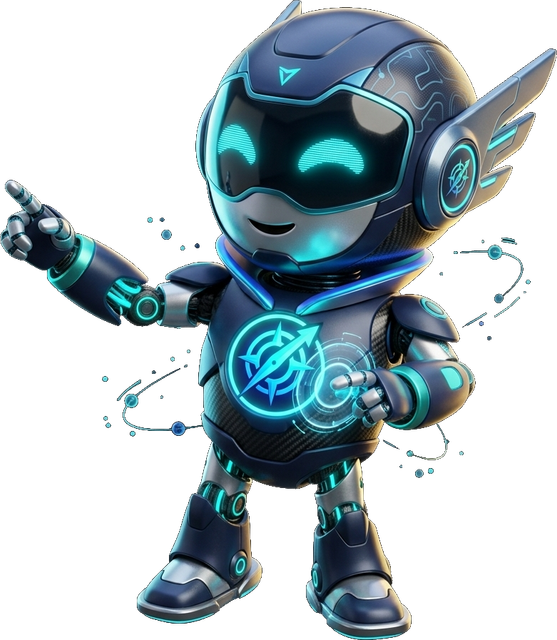
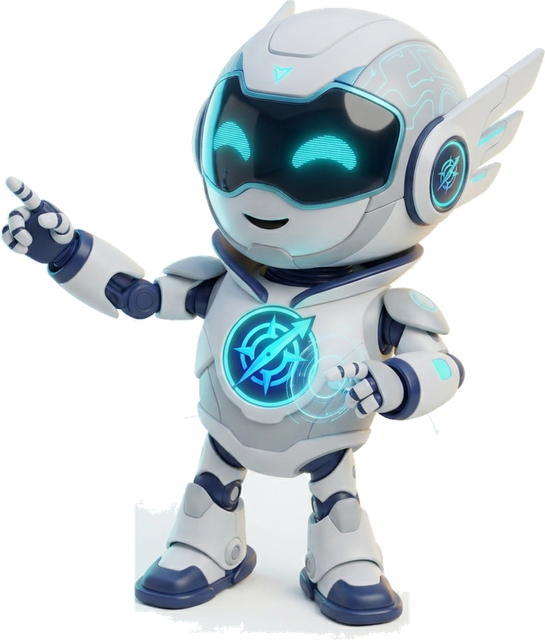
Switch to the white AI mascot

diff --git a/src/components/Mascot.tsx b/src/components/Mascot.tsx
@@ -43,6 +43,8 @@ export default function Mascot({ excited = false }: { excited?: boolean }) {
       </p>
 
       <div className="relative pt-3" style={{ transform: `translateX(${shift}px)`, transition: "transform 0.4s ease-out" }}>
+        {/* soft glow behind the white mascot so it stands out on the light page */}
+        <div className="pointer-events-none absolute inset-x-0 bottom-3 top-6 rounded-full bg-[radial-gradient(closest-side,rgba(20,184,166,0.22),rgba(20,184,166,0.08)_60%,transparent)]" />
         {/* little glowing dots orbiting the mascot */}
         <div className={`mascot-orbit pointer-events-none absolute inset-0 ${excited ? "is-excited" : ""}`}>
           <span className="absolute left-0 top-1/3 h-2 w-2 rounded-full bg-cyan-400 shadow-[0_0_10px_3px_rgba(34,211,238,0.6)]" />
@@ -51,7 +53,7 @@ export default function Mascot({ excited = false }: { excited?: boolean }) {
         </div>
         <div className={`mascot-float ${excited ? "is-excited" : ""}`}>
           <div className="mascot-wiggle">
-            <Image src="/mascot.png" alt="" width={557} height={640} className={`mascot-glow h-auto w-full ${excited ? "is-excited" : ""}`} unoptimized />
+            <Image src="/mascot.png" alt="" width={545} height={640} className={`mascot-glow h-auto w-full ${excited ? "is-excited" : ""}`} unoptimized />
           </div>
         </div>
         <div className="mascot-shadow mx-auto mt-1 h-2.5 w-24 rounded-full bg-slate-900/30 blur-sm" />

diff --git a/CLAUDE.md b/CLAUDE.md
@@ -48,7 +48,7 @@ Seed with `npm run seed` (`scripts/seed.mjs`): users `manav@leadtrove.demo` (Own
 Clean, modern, professional. Dark left sidebar (Dashboard, Contacts, Pipelines, Tasks, Forms, Settings), top bar, white cards, **one accent colour** (teal, `--color-accent` in `src/app/globals.css`). Must work on a laptop screen and look good in a 2-minute screen recording. Structure is inspired by GoHighLevel, but use LeadTrove's own name, logo (`public/logo.png`, `public/logo-icon.png`), colours and icons. **Do not copy GoHighLevel branding or exact design.**
 
 ## Welcome page
-Layout: hero, quote + fun fact, then the "What's on your mind, {name}?" AskBar (`src/components/AskBar.tsx`, UI only, not connected to any AI yet) with the animated AI mascot beside it (`src/components/Mascot.tsx`, image `public/mascot.png` cut from `design/mascot-original.png`, CSS animations in `globals.css`), then two columns: left Quick actions / Last actions / Pipeline snapshot (Sales open value per stage + deals won in 30 days), right Today's tasks (incl. overdue) / Stale leads / mini Calendar. Quick actions are hidden if the role lacks the permission.
+Layout: hero, quote + fun fact, then the "What's on your mind, {name}?" AskBar (`src/components/AskBar.tsx`, UI only, not connected to any AI yet) with the animated AI mascot beside it (`src/components/Mascot.tsx`, image `public/mascot.png` cut from `design/mascot-light-original.png` (the dark version is `design/mascot-original.png`), CSS animations in `globals.css`), then two columns: left Quick actions / Last actions / Pipeline snapshot (Sales open value per stage + deals won in 30 days), right Today's tasks (incl. overdue) / Stale leads / mini Calendar. Quick actions are hidden if the role lacks the permission.
 `/welcome` (sidebar "Home") is the landing page after login: "Welcome back, {first name}", a daily sales quote and a fun fact from `src/lib/sales-content.ts`. Keep quotes properly attributed and facts non-fabricated.
 
 ## Commands
